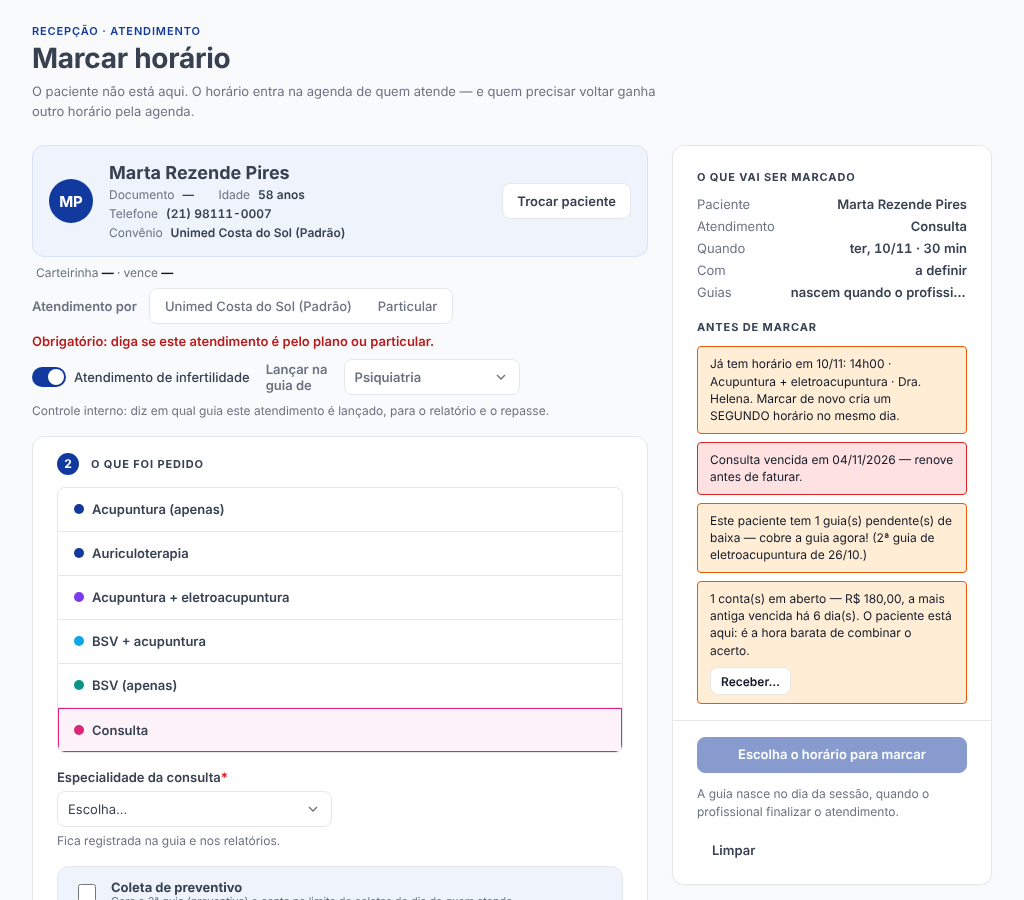
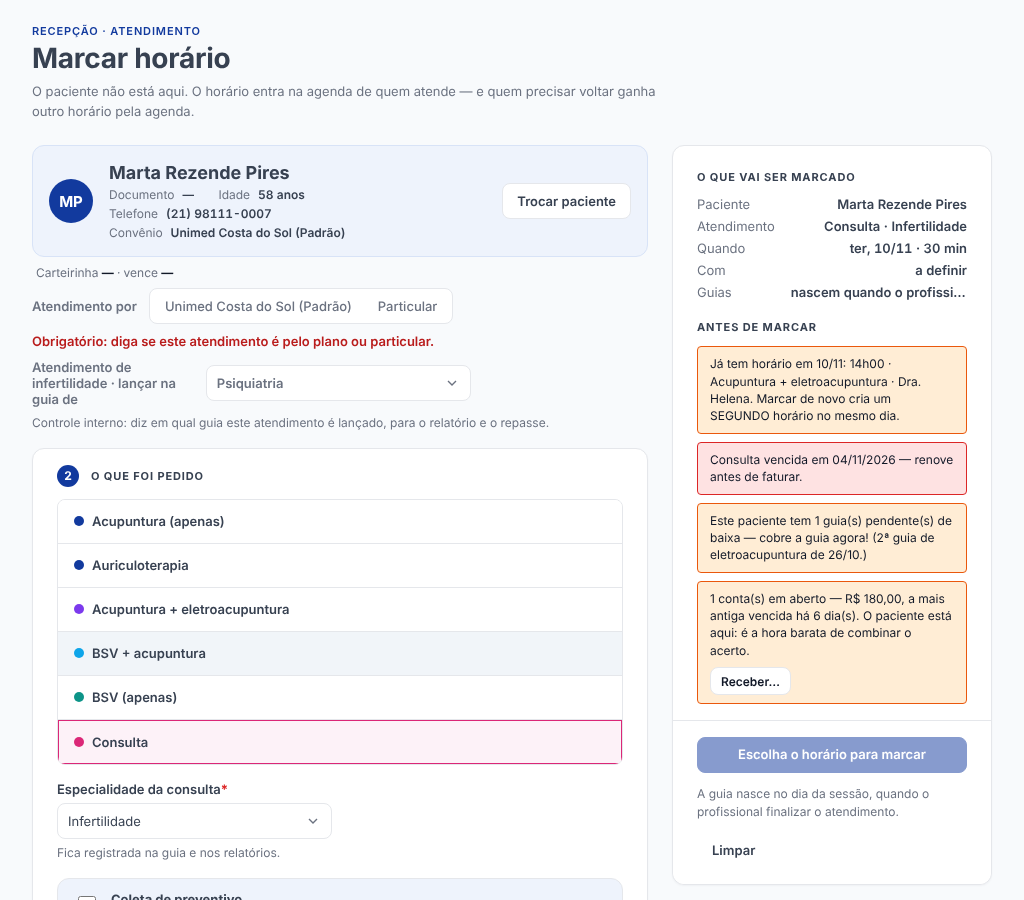
Tipos de atendimento: Infertilidade e Suplementação para gestante; a guia interna segue o tipo
Pedido da direção (áudio de 10/11, 09:56): "pode dividir o meu atendimento em
três: infertilidade, ginecologia e suplementação para gestante — fica mais
caracterizado o tipo de atendimento".

- Os dois tipos novos entram como especialidades de consulta pelo CATÁLOGO
  (EspecialidadeCatalogoService.DaCasa), nunca pelo enum embutido; Ginecologia
  já existia. A clínica pode renomear ou desativar.
- A chave separada "atendimento de infertilidade" saiu: escolher a consulta de
  Infertilidade é o que faz a marcação pedir "lançar na guia de" (Geriatria ou
  Psiquiatria). Uma porta por pergunta.
- FaturamentoCongeladoTests atualizado de propósito: os tipos aparecem no
  seletor de especialidade do faturamento a partir da próxima release dele;
  nenhuma regra de guia os conhece.

Redes: InfertilidadeGuiaInternaTests (10), FaturamentoCongelado, cobertura e
regras de faturamento (96 verdes), verificar-suite, build sem incremental do
Ui.Blazor, fotos em 1024 e 1366. A suíte completa fica com o CI do PR.

Claude-Session: https://claude.ai/code/session_01TSCSVTtEE17JxTjhZrGvqR

Changed region(s): [[0.0312, 0.4044, 0.5938, 1.0], [0.8125, 0.2489, 0.9375, 0.28], [0.2812, 0.8711, 0.3125, 0.9333]]

diff --git a/tests/Clinica.Tests/InfertilidadeGuiaInternaTests.cs b/tests/Clinica.Tests/InfertilidadeGuiaInternaTests.cs
@@ -95,6 +95,37 @@ public class InfertilidadeGuiaInternaTests : IDisposable
         InfertilidadeNaTela.Selo(" ").Should().BeNull();
     }
 
+    [Fact]
+    public void A_guia_e_pedida_pelo_TIPO_de_atendimento_infertilidade_e_so_por_ele()
+    {
+        InfertilidadeNaTela.EhInfertilidade(ehConsulta: true, "Infertilidade").Should().BeTrue();
+        InfertilidadeNaTela.EhInfertilidade(ehConsulta: true, "Ginecologia").Should().BeFalse();
+        InfertilidadeNaTela.EhInfertilidade(ehConsulta: true, "SuplementacaoGestante").Should().BeFalse();
+        InfertilidadeNaTela.EhInfertilidade(ehConsulta: true, null).Should().BeFalse();
+        InfertilidadeNaTela.EhInfertilidade(ehConsulta: false, "Infertilidade").Should().BeFalse("só consulta tem tipo de atendimento");
+    }
+
+    [Fact]
+    public async Task Os_tres_tipos_de_atendimento_estao_no_catalogo_e_a_clinica_que_desativa_um_e_obedecida()
+    {
+        // A direção: "pode dividir o meu atendimento em três: infertilidade, ginecologia e
+        // suplementação para gestante". Os dois novos entram pelo catálogo, nunca pelo enum.
+        var catalogo = new EspecialidadeCatalogoService(new ClinicaRepositorio(_db));
+
+        var tipos = await catalogo.ListarAsync();
+        tipos.Should().Contain(e => e.Codigo == "Infertilidade" && e.Nome == "Infertilidade" && e.Ativo);
+        tipos.Should().Contain(e => e.Codigo == "SuplementacaoGestante" && e.Nome == "Suplementação para gestante" && e.Ativo);
+        tipos.Should().Contain(e => e.Codigo == nameof(Especialidade.Ginecologia));
+        Enum.GetNames<Especialidade>().Should().NotContain("Infertilidade", "tipo novo não entra no enum embutido");
+
+        await catalogo.SalvarAsync([new EspecialidadeCadastro { Codigo = "SuplementacaoGestante", Nome = "Suplementação", Ativo = false }]);
+        _db.ChangeTracker.Clear();
+
+        var depois = (await catalogo.ListarAsync()).Single(e => e.Codigo == "SuplementacaoGestante");
+        depois.Ativo.Should().BeFalse();
+        depois.Nome.Should().Be("Suplementação");
+    }
+
     // ==================== a gravação ====================
 
     [Fact]

diff --git a/tests/Clinica.Tests/FaturamentoCongeladoTests.cs b/tests/Clinica.Tests/FaturamentoCongeladoTests.cs
@@ -101,7 +101,8 @@ public class FaturamentoCongeladoTests
     }
 
     /// <summary>
-    /// O catálogo que o faturamento carrega na abertura mantém as seis embutidas.
+    /// O catálogo que o faturamento carrega na abertura mantém as seis embutidas — mais os
+    /// tipos de atendimento da casa (nov/2026), que entram pelo catálogo.
     /// A migração pode acrescentar Psicologia como entrada configurável, sem alterar
     /// o enum nem os códigos e regras das guias.
     ///
@@ -123,8 +124,16 @@ public class FaturamentoCongeladoTests
         var especialidades = await new EspecialidadeCatalogoService(repo).ListarAsync();
         var codigos = especialidades.Select(e => e.Codigo).ToArray();
         codigos.Should().Contain(Enum.GetNames<Especialidade>());
+        // nov/2026 — MUDANÇA INTENCIONAL, pedida pela direção ("pode dividir o meu atendimento em
+        // três: infertilidade, ginecologia e suplementação para gestante"): os dois tipos novos
+        // entram pelo CATÁLOGO (`EspecialidadeCatalogoService.DaCasa`), não pelo enum. A resposta
+        // à pergunta deste arquivo é "sim, vai aparecer": no seletor de especialidade da consulta
+        // do faturamento, a partir da PRÓXIMA release dele (a garantia é de código, não de linha
+        // no banco — o app instalado hoje não muda). Nenhuma regra de guia os conhece.
+        var daCasa = EspecialidadeCatalogoService.DaCasa.Select(t => t.Codigo).ToArray();
+        daCasa.Should().BeEquivalentTo("Infertilidade", "SuplementacaoGestante");
         codigos.Should().OnlyContain(c => Enum.GetNames<Especialidade>().Contains(c)
-            || c == "Psicologia");
+            || c == "Psicologia" || daCasa.Contains(c));
 
         var modalidades = await new ModalidadeCatalogoService(repo).ListarAsync();
         modalidades.Select(m => m.Codigo).Should()

diff --git a/src/Clinica.Application/Servicos/EspecialidadeCatalogoService.cs b/src/Clinica.Application/Servicos/EspecialidadeCatalogoService.cs
@@ -15,6 +15,17 @@ public sealed class EspecialidadeCatalogoService
 
     public EspecialidadeCatalogoService(IClinicaRepositorio repo) => _repo = repo;
 
+    /// <summary>O código da consulta de INFERTILIDADE — é ela que pede a guia interna (<c>InfertilidadeNaTela</c>).</summary>
+    public const string CodigoInfertilidade = "Infertilidade";
+    public const string CodigoSuplementacaoGestante = "SuplementacaoGestante";
+
+    /// <summary>Os tipos de atendimento garantidos no catálogo além das embutidas do enum.</summary>
+    public static readonly IReadOnlyList<(string Codigo, string Nome)> DaCasa =
+    [
+        (CodigoInfertilidade, "Infertilidade"),
+        (CodigoSuplementacaoGestante, "Suplementação para gestante")
+    ];
+
     /// <summary>Todas as entradas (embutidas garantidas + adicionadas), ordenadas por nome.</summary>
     public async Task<IReadOnlyList<EspecialidadeCadastro>> ListarAsync(CancellationToken ct = default)
     {
@@ -32,6 +43,15 @@ public sealed class EspecialidadeCatalogoService
                     Ativo = true
                 };
         }
+
+        // E os TIPOS DE ATENDIMENTO da casa (nov/2026 — a direção: "pode dividir o meu atendimento
+        // em três: infertilidade, ginecologia e suplementação para gestante; fica mais
+        // caracterizado o tipo de atendimento"). Ginecologia já é embutida; os outros dois
+        // entram pelo CATÁLOGO, nunca pelo enum (FaturamentoCongeladoTests). Só são garantidos
+        // enquanto ninguém os gravou: a clínica que renomear ou desativar um deles é obedecida.
+        foreach (var (codigo, nome) in DaCasa)
+            if (!salvas.ContainsKey(codigo))
+                salvas[codigo] = new EspecialidadeCadastro { Codigo = codigo, Nome = nome, Ativo = true };
 
         return salvas.Values.OrderBy(e => e.Nome).ToList();
     }

diff --git a/src/Clinica.Application/Modelos/InfertilidadeNaTela.cs b/src/Clinica.Application/Modelos/InfertilidadeNaTela.cs
@@ -18,6 +18,15 @@ namespace Clinica.Application.Modelos;
 public static class InfertilidadeNaTela
 {
     public const string Rotulo = "Atendimento de infertilidade";
+
+    /// <summary>
+    /// A consulta é de INFERTILIDADE? É o tipo de atendimento (a especialidade da consulta) que
+    /// pede a guia interna — uma porta só: quem escolhe "Infertilidade" no que foi pedido já
+    /// disse o que é, e a tela só pergunta onde lançar.
+    /// </summary>
+    public static bool EhInfertilidade(bool ehConsulta, string? especialidadeCodigo)
+        => ehConsulta && string.Equals(especialidadeCodigo, Clinica.Application.Servicos.EspecialidadeCatalogoService.CodigoInfertilidade,
+            StringComparison.OrdinalIgnoreCase);
     public const string RotuloDaGuia = "Lançar na guia de";
     public const string Dica = "Controle interno: diz em qual guia este atendimento é lançado, para o relatório e o repasse.";
 

diff --git a/docs/infertilidade-guia-interna.md b/docs/infertilidade-guia-interna.md
@@ -14,11 +14,29 @@ repasse. **Não vai para o convênio.** O campo foi desenhado em cima dessa fras
 > A_marca_e_so_classificacao_interna_as_guias_geradas_sao_as_mesmas` quebra se alguém o ligar
 > à geração de guia.
 
+## Os três tipos de atendimento (áudio de 10/11, 09:56)
+
+"Pode dividir o meu atendimento em três: infertilidade, ginecologia e suplementação para
+gestante — fica ainda mais caracterizado o tipo de atendimento."
+
+- O tipo de atendimento é a **especialidade da consulta**. Ginecologia já existia; **Infertilidade**
+  e **Suplementação para gestante** entram pelo catálogo (`EspecialidadeCatalogoService.DaCasa`),
+  nunca pelo enum embutido. A clínica pode renomear ou desativar qualquer um nas Configurações.
+- Com isso a chave separada "atendimento de infertilidade" da primeira versão **saiu**: quem
+  escolhe a consulta de Infertilidade já disse o que é, e a tela só pergunta em qual guia lançar
+  (uma porta por pergunta).
+- ⚠ `FaturamentoCongeladoTests` foi atualizado de propósito: os dois tipos passam a aparecer no
+  seletor de especialidade do app de faturamento **a partir da próxima release dele** (a
+  garantia é de código, não de linha no banco). Nenhuma regra de guia os conhece.
+- ⚠ Onde a **cobertura do convênio** restringe as especialidades (Petrobras: geriatria,
+  ginecologia e psiquiatria), consulta de Infertilidade ou de Suplementação **pelo plano** é
+  recusada — entra como particular, ou o gerente acrescenta o tipo à lista do plano.
+
 ## O que foi feito
 
-- **Na marcação** (formulário do horário e Marcar do balcão): a chave **Atendimento de
-  infertilidade** e, ligada, o seletor **Lançar na guia de** — Geriatria ou Psiquiatria. Marcou
-  a chave e não escolheu a guia: recusa com a frase que diz o que falta.
+- **Na marcação** (formulário do horário e Marcar do balcão): ao escolher a consulta de
+  **Infertilidade**, aparece o seletor **Lançar na guia de** — Geriatria ou Psiquiatria. Sem a
+  guia escolhida, a tela recusa com a frase que diz o que falta.
 - **Na agenda**: o selo **"Infertilidade · guia Geriatria"** na Agenda do dia, na Grade, na
   janela do horário e no Meu dia do Consultório, com a dica que diz que é controle interno.
 - **Na edição do horário**: dá para trocar ou tirar a guia; a troca fica na **trilha de
@@ -37,7 +55,7 @@ repasse. **Não vai para o convênio.** O campo foi desenhado em cima dessa fras
 ## UX · DX · CX
 
 - 🧑💻 **UX** — a secretária marca na mesma tela em que marca o horário; a guia é obrigatória
-  quando a chave está ligada; o selo aparece sem clique para ela e para quem atende.
+  quando o tipo é Infertilidade; o selo aparece sem clique para ela e para quem atende.
 - 🛠 **DX** — uma coluna aditiva (`20261110124442_InfertilidadeGuiaInterna`); regra e textos em
   `InfertilidadeNaTela` (Application); componente único `EscolhaDeInfertilidade`; a gravação
   passa pela `AgendaService` (`AgendarAsync` / `RemarcarAsync`: nulo preserva, vazio limpa).

diff --git a/docs/agentes/regras-de-negocio.md b/docs/agentes/regras-de-negocio.md
@@ -4855,3 +4855,7 @@ dizendo que "não vai para o convênio", e o campo foi aceito NESSA premissa: el
 em regra de guia, código TISS, lote nem XML — quem atende é o profissional do horário. O teste
 `A_marca_e_so_classificacao_interna_as_guias_geradas_sao_as_mesmas` prende isso. Remarcar sem o
 parâmetro preserva; vazio limpa; a troca vai à trilha. Detalhes: `docs/infertilidade-guia-interna.md`.
+Os TIPOS de atendimento da direção (Infertilidade, Ginecologia, Suplementação para gestante) são
+especialidades de consulta; os dois novos vêm de `EspecialidadeCatalogoService.DaCasa` (catálogo,
+nunca o enum — `FaturamentoCongeladoTests` os lista de propósito). É a consulta de Infertilidade
+que faz a tela pedir a guia interna (`InfertilidadeNaTela.EhInfertilidade`); não há chave separada.
